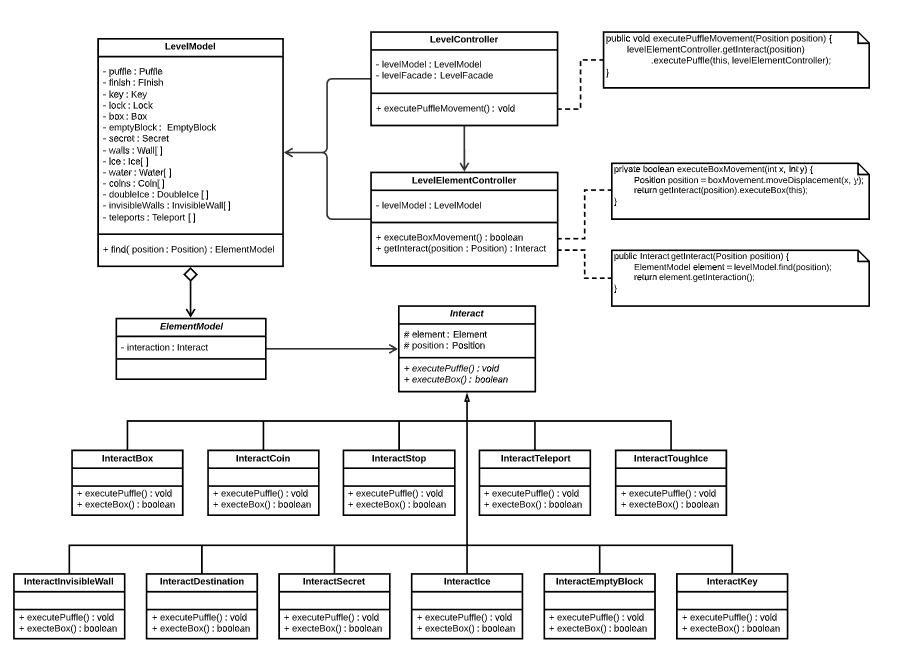
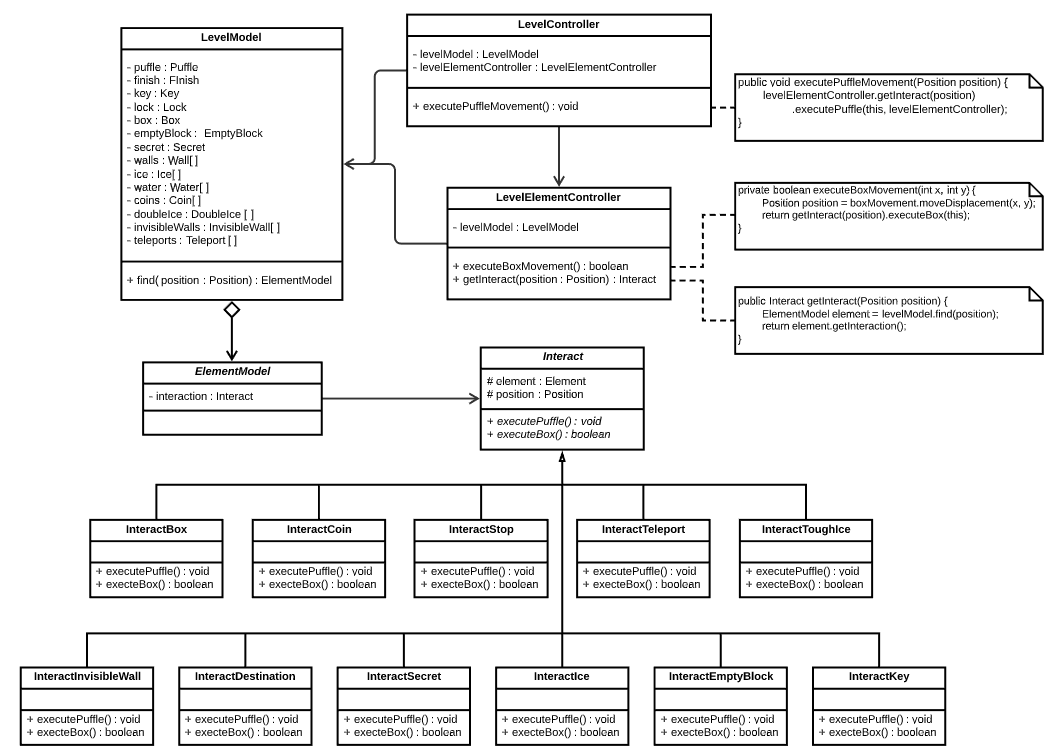
Uml done

Changed region(s): [[0.0, 0.0, 1.0, 1.0]]

diff --git a/docs/README.md b/docs/README.md
@@ -223,7 +223,7 @@ Para resolver este problema decidimos utilizar o *Design Pattern* *Strategy* que
 
 O diagrama seguinte demonstra como implementamos o *Design Pattern*
 
-![](images/CommandUML.png)
+![](images/UML/interact.png)
 
 ##### Ficheiros
 - [Interact](../src/main/java/org/g70/controller/level/interact/Interact.java)
@@ -314,21 +314,20 @@ O diagrama seguinte demonstra como implementamos o *Design Pattern*
 ### Private Class Data
 
 #### Problema
-O nosso programa continha um enorme quantidade de objetos, que eram utilizados quer no *levelModel*, quer no *levelFacade*, causando o *Code Smells* *Data Clumps*.
+Uma vez que estamos a utilizar o *MVC* quase desde o ínicio deste trabalho, não tivemos relativamente um problema devido à manipulação indevida de atributos, uma vez que toda a informação sobre os dados encontram-se no *Model*.
 
 #### Padrão
-Para resolver este problema, decidimos utilizar o *Design Pattern* *Private Class Data*, que consiste na criação de uma
-*Data Class* contendo todos os objetos que se deseja encapsular.
+Esta situação provocou a criação de algumas *Design Pattern* *Private Class Data*. Este *Design Pattern* consiste na criação de uma data class contendo todos os objetos que se deseja encapsular.
 
 #### Implementação
-O diagrama seguinte demonstra como implementamos o *Design Pattern*
+O diagrama seguinte demonstra como este *Design Pattern* está implementado no LevelModel, LevelController e LevelElementController.
 
-![](images/PrivateClassData.png)
+![](images/UML/dataclass.png)
 
 #### Consequências
 
-- Corrige o *Code Smell* *Data Clumps*, organizando os elementos associados ao nível num só objeto, simplificando todas as classes que necessitem de ter acesso aos *Elements*.
-- Origina o *Code Smell* *Data Class*, que acaba por ser inerente ao padrão de arquitetura usado: *MVC* (Mais informação sobre este *Code Smell* no capítulo seguinte).
+- Permite controlar o acesso à informação presente no nível.
+- Origina o *Code Smell* *Data Class*, que acaba por ser inerente ao padrão de arquitetura usado: *MVC*.
 - Facilita a adição de *Elements* ao nível, pelo que basta adicionar mais um atributo ao levelModel.
 
 > Fonte : [Design Patterns - Private Class Data](https://en.wikipedia.org/wiki/Private_class_data_pattern), [Private Class Data](https://en.wikipedia.org/wiki/Private_class_data_pattern)
